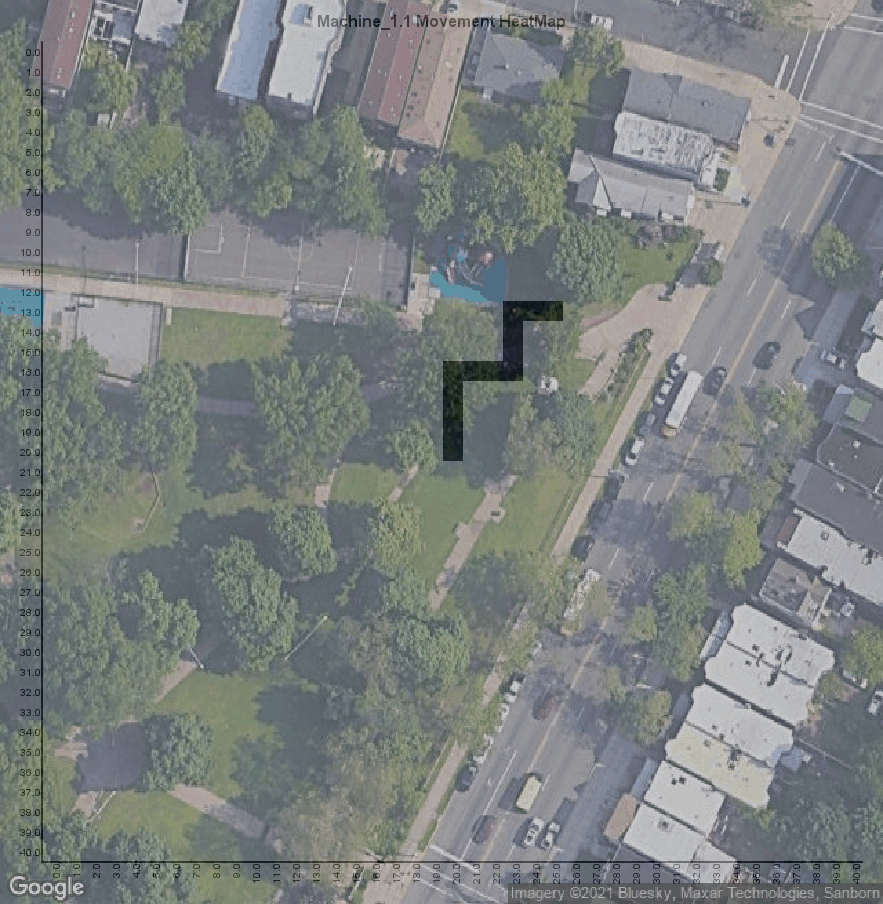
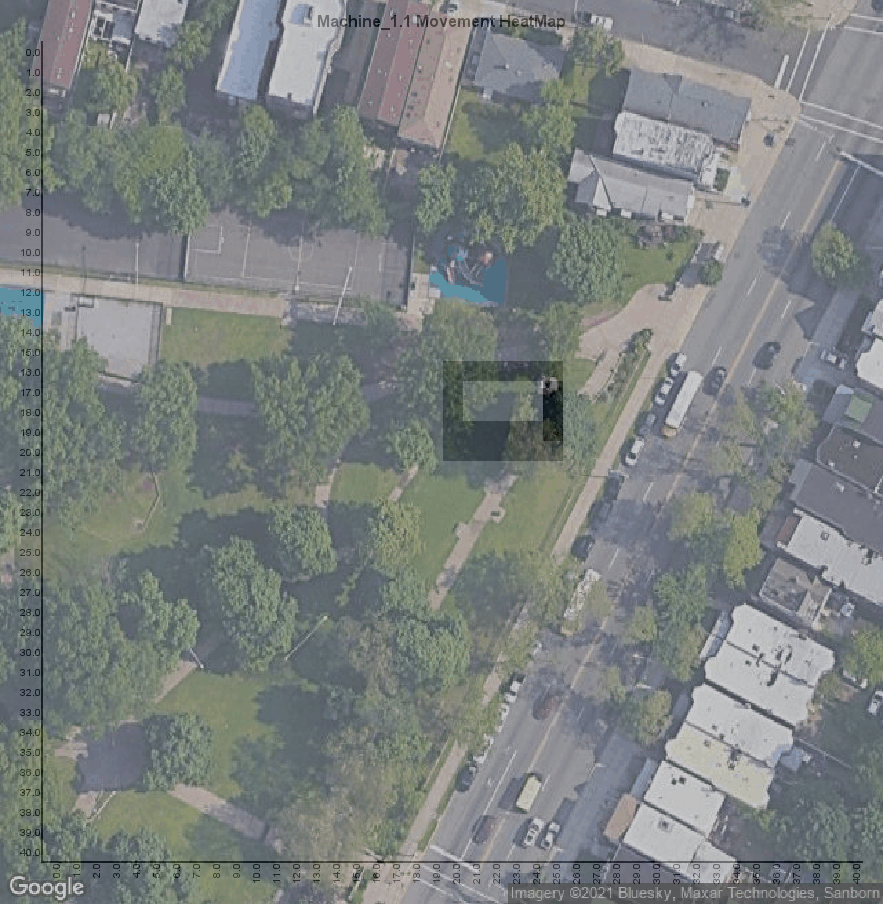
System log content now depend upon status of toggle button

Changed region(s): [[0.4892, 0.3097, 0.6421, 0.5265]]

diff --git a/src/main/java/NavigationPanelController.java b/src/main/java/NavigationPanelController.java
@@ -105,7 +105,7 @@ public class NavigationPanelController {
     public void arrowKeyReleaseHandler(KeyEvent keyEvent) throws IOException {
 
         /** Values initializers for heatmap */
-        String direction = null;
+        String direction = "Forward";
         long distance = 0;
 
         /** Checks which key was released to map its released system time*/
@@ -128,7 +128,7 @@ public class NavigationPanelController {
                 backTrackingLog.append(keyHeldDuration % 1000).append(" millisec");
 
                 direction = "Forward";
-                distance = keyHeldDuration /1000;
+                distance = keyHeldDuration / 1000;
 
             }else{
                 forwardTrackingLog.append("Forward : " + keyHeldDuration %1000 + " millisec");
@@ -146,7 +146,7 @@ public class NavigationPanelController {
                 backTrackingLog.append(keyHeldDuration % 1000).append(" millisec");
 
                 direction = "Left";
-                distance = keyHeldDuration /1000;
+                distance = keyHeldDuration / 1000;
 
             }else{
                 forwardTrackingLog.append("Left        : " + keyHeldDuration %1000 + " millisec");
@@ -165,7 +165,7 @@ public class NavigationPanelController {
 
 
                 direction = "Reverse";
-                distance = keyHeldDuration /1000;
+                distance = keyHeldDuration / 1000;
 
             }else{
                 forwardTrackingLog.append("Reverse : " + keyHeldDuration %1000 + " millisec");
@@ -183,7 +183,7 @@ public class NavigationPanelController {
                 backTrackingLog.append(keyHeldDuration % 1000).append(" millisec");
 
                 direction = "Right";
-                distance = keyHeldDuration /1000;
+                distance = keyHeldDuration / 1000;
 
             }else{
                 forwardTrackingLog.append("Right     : " + keyHeldDuration %1000 + " millisec");
@@ -193,10 +193,10 @@ public class NavigationPanelController {
         }
         else if(currKey == KeyCode.SPACE){
             forwardTrackingLog.append("Brake");
-            forwardTrackingLog.append("\n");
-
             backTrackingLog.append("Brake");
-            backTrackingLog.append("\n");
+
+            direction = "Forward";
+            distance = 0;
         }
 
         /** Resets and pushes each log on next line in systemLogs textfield*/
@@ -204,13 +204,17 @@ public class NavigationPanelController {
         backTrackingLog.append("\n");
         keyHeldDuration = 0;
 
-        systemLogTA_ID.setText(String.valueOf(forwardTrackingLog));
+        /** Depending upon status of track-backtrack toggle show system log contect*/
+        if( !isBackTrackOn ){
+            systemLogTA_ID.setText(String.valueOf(forwardTrackingLog));
+        }else{
+            systemLogTA_ID.setText(String.valueOf(backTrackingLog));
+        }
 
-        /** Call method to calculate total distance covered w.r.t. seconds key was pressed*/
+        /** Call method to calculate total distance covered w.r.t. amount of time key was held*/
         totalDistanceTravelled();
 
         /** Sending data to heatMapGenerator class after each key release*/
-        assert direction != null;
         HeatMapGenerator.heatChartGenerator(direction, distance);
         HeatMapGenerator.heatMapGeneration();
 
